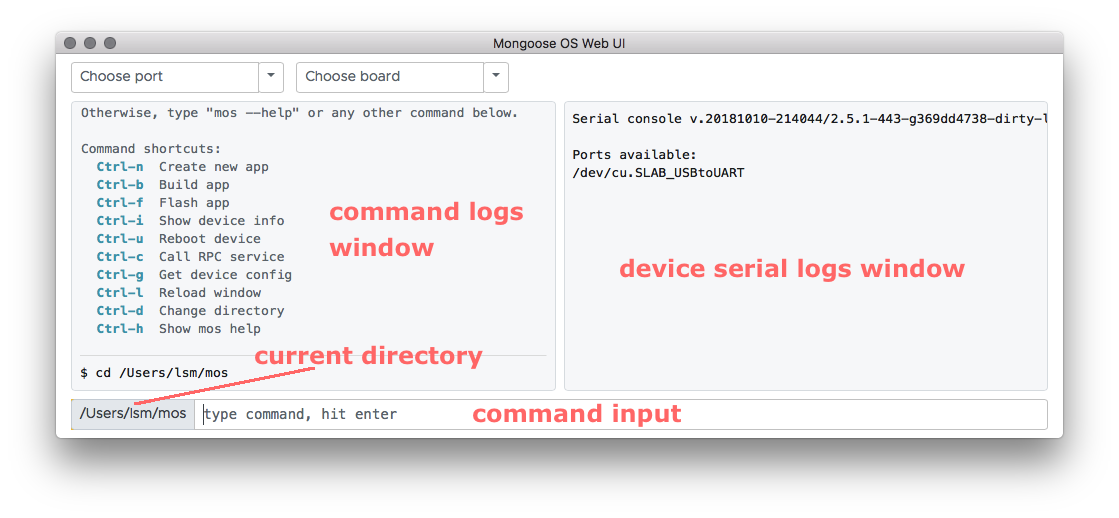
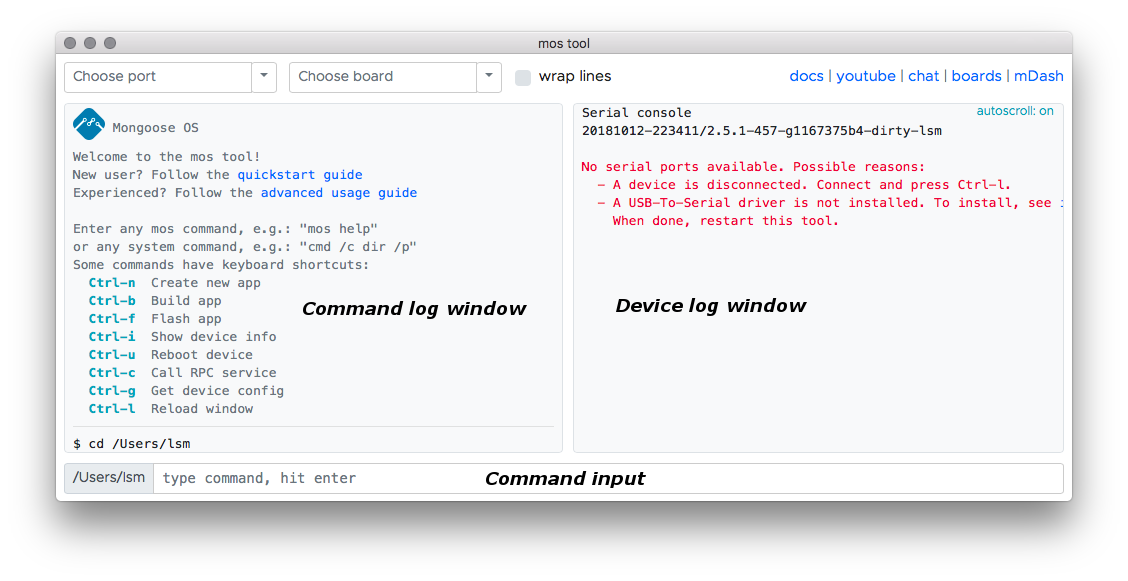
Quickstart

diff --git a/userguide/quickstart.md b/userguide/quickstart.md
@@ -1,6 +1,6 @@
 # Mongoose OS quick start quide
 
-A 10-minutes tutorial that makes your device into a mobile-controllable,
+A 10-minute guide to turn your device into a mobile-controllable,
 updatable, remotely manageable, secure, configurable product. Just follow
 the steps below.
 
@@ -23,8 +23,8 @@ managing files on a device, calling device's RPC services, and so on.
 Make sure your device is connected via the USB to your workstation.
 
 On Windows, double-click on `mos.exe`. On Mac or Linux, start terminal
-and enter `mos` command, with no arguments. Running `mos` tool this way,
-without arguments, starts a Web UI window:
+and enter `mos` command, with no arguments. Running `mos` tool
+without arguments starts a Web UI window:
 
 ![](images/qs1.png)
 
@@ -47,14 +47,13 @@ one port should be present.
 ## Create new app
 
 In a UI, choose your board from a dropdown menu. Then, press `Ctrl-n`
-to create a new app. That will paste the `mos clone` command into the prompt.
-Change `APP_NAME` to `my_app`:
+to create a new app. That will paste the `mos clone` command into the prompt:
 
 ![](images/qs3.png)
 
 Press enter. That will clone the
-[demo-js](https://github.com/mongoose-os-apps/demo-js) repository as `my_app`.
-Notice how current directory has changed to `my_app`:
+[demo-js](https://github.com/mongoose-os-apps/demo-js) repository as `app1`.
+Notice how current directory has changed to `app1`:
 
 ![](images/qs4.png)
 
@@ -71,17 +70,152 @@ As you can see, we won't make any changes to the app - we'll do that later.
 
 ## Flash firmware
 
-Type `mos flash` and press enter. That will flash a built firmware to a device.
+Make sure the port is selected in the dropdown menu.
+Type `mos flash` and press enter. That will flash a built firmware to the device:
+
+![](images/qs6.png)
+
+When flashing completes, the firmware starts to write logs to the serial
+console. Notice how new messages start to appear in the right window.
+The window autoscrolls to the bottom, unless you scroll up manually to see
+some previous logs. To re-enable the scrol, click on the command input
+and press enter.
 
 ## Configure WiFi
 
+Type command `mos wifi WIFI_NETWORK_NAME WIFI_PASSWORD`. Use your own
+network name/password. Press enter. On the serial console, you'll see how
+the device reboots after saving new configuration settings, joins the WiFi
+network, gets the IP configuration, and synchronises time with SNTP server:
+
+![](images/qs7.png)
+
+
 ## Add device to the mDash management dashboard
+
+- Login to the mDash at https://dash.mongoose-os.com/. 
+- Click on "Add new device" button. That'll create a new device.
+- Click on a "Token" link to copy the device's access token to the clipboard:
+
+![](../mdash/dash8.png)
+
+- Go back to the mos tool, type command (change ACCESS_TOKEN to your copied
+access token) and press enter:
+  ```
+  mos config-set dash.enable=true dash.token=ACCESS_TOKEN
+  ```
+
+![](images/qs8.png)
+
+Notice that the device started to print messages `{"uptime":XX,"on":false}`
+to the serial console. It sends this message to the dashboard, reporting
+its state to the device shadow
+([read more about device shadows](../mdash/shadow.md)).
+
+Notice that the device became online on mDash, and how the device shadow
+updates every second, incrementing its version number:
+
+![](images/qs9.png)
+
+
+Click on the "+" sign to expand the shadow. Scroll it down and see how
+the reported "uptime" metric updates every second. "Uptime" is the amount
+of time since the last power-on or reboot:
+
+![](images/qs10.png)
+
+Click on a device name to see a detailed management console for the device:
+general information, real-time notifications, configuration editor, file
+editor, device shadow editor, and an RPC service call window. We won't study
+all these management tools now though, so proceed to the next step.
 
 ## Enable mobile app
 
-## Invite users (you) to use the mobile app
+Click on the "Mobile app" menu, and click on a checkbox to enable mobile app.
+Enter your email address in the text box and press on "Send invitation" button:
+
+![](images/qs11.png)
+
+On your mobile phone, open you inbox, open an email from mDash:
+
+![](images/qs12.png)
+
+
+## Control your device from the mobile app
+
+Click on the link in the invitation email. This will bring you immediately
+to the PWA (Progressive Web App). It is available only for those who has
+the link, because the app access token is embedded inside the link.
+
+Notice how the reported device state is displayed on the mobile app.
+An `uptime` metric is displayed as a read-only value. An `on` value,
+however, is rendered as a toggle button:
+
+![](images/qs14.png)
+
+Pressing the button turns is on, changes the device shadow key `on` from `false`
+to `true`, and lights on an LED on a device:
+
+![](images/qs13.png)
 
 ## Make changes to the firmware
 
+Now it is time to make a change to the default firmware. Let's assume that
+we want to report a temperature to our mobile users, and disable the
+on/off button. Go to the mos tool, notice the current directory. Start
+your favorite editor, and open `fs/init.js` file in it.
+
+Make changes in three places:
+
+```javascript
+load('api_sys.js');
+load('api_math.js');  // <--- add this line
+```
+
+```javascript
+let state = {on: false, temp: 0};  // <-- change "uptime" to "temp"
+```
+
+And simulate temperature reading:
+
+```javascript
+let reportState = function() {
+  state.temp = 20 + Math.random() * 3;  // <-- this line
+```
+
+When done editing, save changes. Press `Ctrl-b` and enter to rebuild the firware.
+Note how the new firmware is saved in `build/fw.zip`.
+
 ## Update firmware over-the-air
+
+Now let's update our device with the new firmware over the air.
+Go to the mDash, click on "Devices" top menu item to see the device list.
+Select a device, click on "OTA update selected" button, then click on
+"Choose firmware .zip file":
+
+![](images/qs15.png)
+
+Navigate to the freshly built `fw.zip` file, then notice how the
+progress bar appears showing the OTA progress:
+
+![](images/qs16.png)
+
+When OTA finishes, click on "Mobile App" menu item. In the
+"Mobile app configuration" section, disable "on" control,
+change "uptime" to "temp" and save:
+
+![](images/qs17.png)
+
+Go to your mobile app and notice how the UI changes. On/off control
+disappeared, and instead of uptime, we're showing a temperature in a
+20-23 range:
+
+![](images/qs18.png)
+
+## Next steps
+
+It's time to move on to more advanced topics - learn how to add support
+to different hardware peripherals, write logic in both C/C++ and JS,
+use API reference, send data to the databases/analytics engines like
+Firebase. Proceed to the [advanced guide](advanced.md)
 
